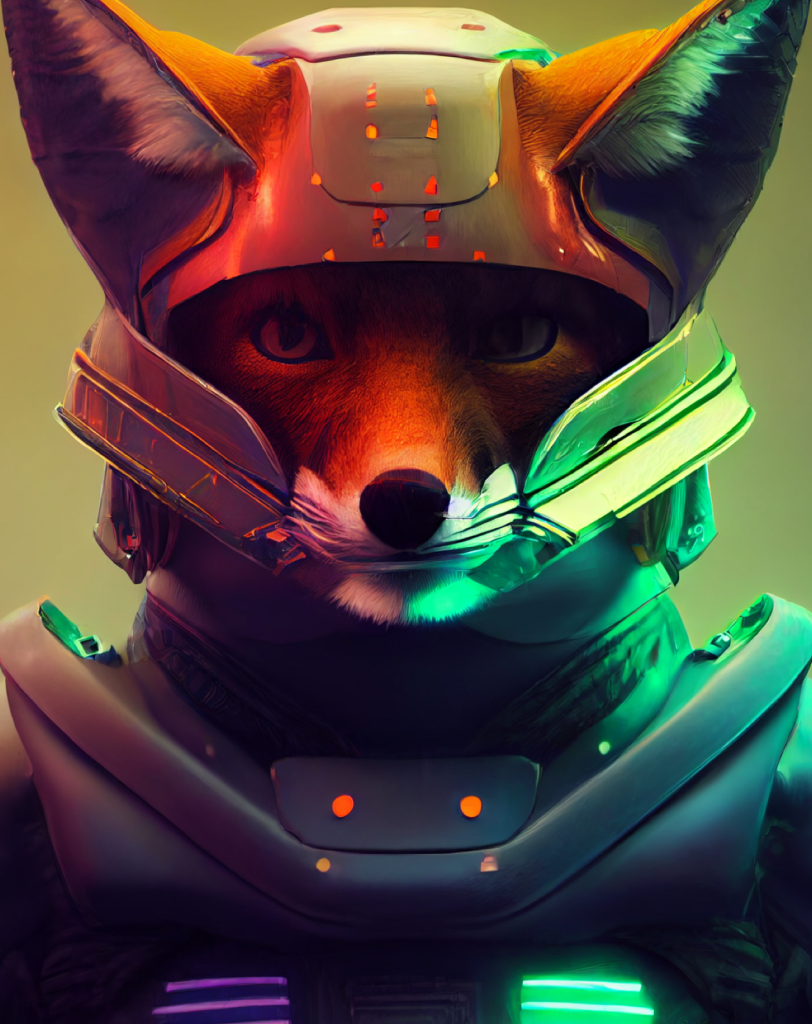
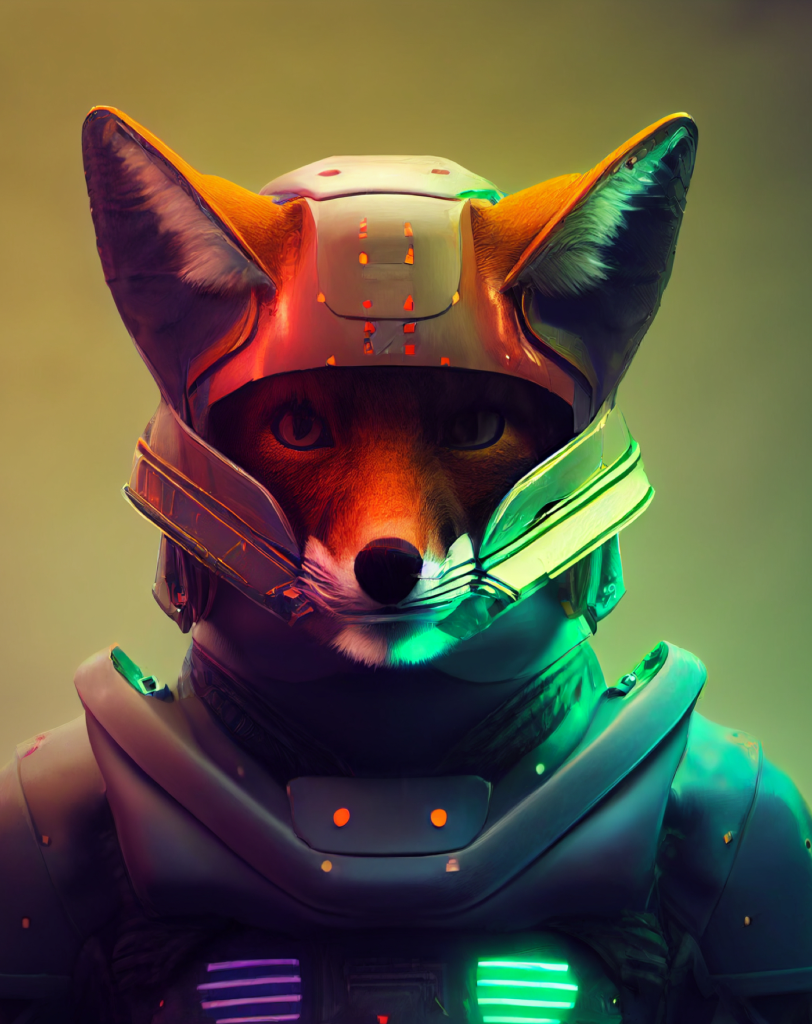
feat:contactus - progress

diff --git a/components/ContactUs.vue b/components/ContactUs.vue
@@ -2,7 +2,7 @@
   <scroll-animator
     @next="currentProgress++"
     @prev="currentProgress--"
-    :breakPointsNumber="8"
+    :breakPointsNumber="5"
     :gap="300"
     :startThresHold="100"
   >
@@ -28,33 +28,18 @@
           </div>
         <div class="home-sec__content" >
             <transition-group mode="out-in" name="fadeInDelayOutLeft">
-              <SaudiArabiaBranch
+              <Addresses
                 class=" animate__animated"
-                :key="2"
+                :key="1"
                 v-if="currentProgress == PROGRESS.firstSlide"
               />
-              <CairoBranch
+              <Contacts
                 class="animate__animated "
-                :key="3"
-                v-else-if="currentProgress == PROGRESS. secondSlide"
-              />
-              <ContactUsEmailSection
-                class="animate__animated "
-                :key="4"
-                v-else-if="currentProgress == PROGRESS.thirdSlide"
-              />
-              <RingUsRight
-                class="animate__animated "
-                :key="5"
-                v-else-if="currentProgress == PROGRESS.fourthSlide"
-              />
-              <RingUsLeft
-                class="animate__animated "
-                :key="6"
-                v-else-if="currentProgress == PROGRESS.fifthSlide "
+                :key="2"
+                v-else-if="currentProgress == PROGRESS.secondSlide "
               />
               <ContactUsFormSection class="animate__animated"
-                :key="1"   v-else-if="currentProgress == PROGRESS.sixthSlide" 
+                :key="3"   v-else-if="currentProgress == PROGRESS.thirdSlide" 
                 />
             </transition-group>
         </div>
@@ -71,20 +56,15 @@ const PROGRESS = Object.freeze({
   firstSlide: 3,
   secondSlide: 4,
   thirdSlide: 5,
-  fourthSlide: 6,
-  fifthSlide: 7,
-  sixthSlide: 8,
 });
 const PROGRESS_HIGHLIGHT_RATIO = Object.freeze({
   [PROGRESS.titleZoomIn]: 100,
   [PROGRESS.titleZoomOut]: 100,
   [PROGRESS.titleMoveUpAndFade]: 0,
-  [PROGRESS.firstSlide]: 15,
-  [PROGRESS.secondSlide]: 30,
-  [PROGRESS.thirdSlide]: 45,
-  [PROGRESS.fourthSlide]: 60,
-  [PROGRESS.fifthSlide]: 75,
-  [PROGRESS.sixthSlide]: 100,
+  [PROGRESS.firstSlide]: 30,
+  [PROGRESS.secondSlide]: 60,
+  [PROGRESS.thirdSlide]: 100,
+
 });
 const PROGRESS_TYPES = Object.freeze({
   forward: 1,

diff --git a/components/Contacts.vue b/components/Contacts.vue
@@ -1,0 +1,28 @@
+<template>
+    <contact-us-info-section class="contact-us-info contact-us-info--contacts" >
+    <template #img >
+            <div class="contacts-img" ></div>
+    </template>
+    <template #title >
+        <div class="branch-details">
+          <h1 class="contact-us-branch-section__title">contact <span class="text-secondary">us</span></h1>
+          <p class="contact-us-branch-section__desc">
+            info@digifymena.com <br>
+            +20227748700 <br />
+            +201144447609
+          </p>
+    </div>
+    </template>
+</contact-us-info-section>
+</template>
+<script>
+import img from "../assets/image/ring.png"
+export default defineNuxtComponent({
+    computed:{
+        img(){
+            return img
+        }
+    }
+})
+
+</script>

diff --git a/assets/sass/component/_contacts.scss b/assets/sass/component/_contacts.scss
@@ -1,0 +1,23 @@
+.contact-us-info{
+    &.contact-us-info--contacts{
+        .contact-us-info__img{
+            .contacts-img{
+                background-image: url(/_nuxt/assets/image/ring.png);
+                background-position-x: left;
+                animation: moveToLeft .7s forwards linear 1;
+                animation-delay: 1.5s;
+                background-size: cover;
+                @keyframes moveToLeft {
+                    0%{
+                        background-position-x: left;
+                    }
+                     100%{
+                        background-position-x: right;
+                    }
+                }
+                }
+            }
+        }
+    }
+
+

diff --git a/assets/sass/component/_contact-us-info.scss b/assets/sass/component/_contact-us-info.scss
@@ -1,9 +1,22 @@
 .contact-us-info{
     .contact-us-info__img{
+        text-align: left;
+        overflow: hidden;
         >img{
-            object-fit: cover;
-            max-width: 100%;
+            width: 100%;
             max-height: 100%;
+            transform: scale(1.5);
+            transform-origin: center center;
+            animation: scale .7s forwards ease-in 1;
+            animation-delay: 1.5s;
+            @keyframes scale {
+                0%{
+                    transform: scale(1.5)
+                }
+                 100%{
+                transform: scale(1);
+                }
+            }
         }
     }
     .contact-us-title{

diff --git a/components/Addresses.vue b/components/Addresses.vue
@@ -1,0 +1,20 @@
+<template>
+  <contact-us-info-section class="contact-us-info" >
+ <template #img >
+         <img
+         src="../assets/image/fox.png"
+         alt="fox-image"
+       />
+ </template>
+ <template #title >
+   <div class="branch-details">
+   <h1 class="contact-us-branch-section__title"><span class="text-secondary">our </span>addresses </h1>
+   <div class="contact-us-branch-section__desc">
+    
+  <p>82 AbdulAziz Fahmy Cairo, Cairo Governorate, Egypt 11361</p>
+     <p>Office #101 The Courtyard, Prince Saud Al Faisal ST. Jeddah</p>
+   </div>
+ </div>
+ </template>
+</contact-us-info-section>
+</template>

diff --git a/components/ContactUsFormSection.vue b/components/ContactUsFormSection.vue
@@ -3,7 +3,7 @@
     <div class="col-lg-5 col-sm-12">
       <div class="row h-auto">
         <div class="col-md-12">
-          <div class="title contact-us-form-section__title d-flex flex-column align-content-start text-start">
+          <div class="title contact-us-form-section__title d-flex flex-column align-content-start text-center">
             <p class="text-uppercase m-0">get in touch</p>
             <p class="text-uppercase m-0">with <span class="text-secondary" >digify</span></p>
             <p class="text-uppercase m-0">team today <span class="text-secondary" >!</span></p>

diff --git a/assets/sass/component/_components.scss b/assets/sass/component/_components.scss
@@ -5,13 +5,10 @@
 @import "./banner";
 @import "./image-text-section";
 @import "./img-text-section";
-@import "./contact-us";
 @import "./contact-us-form";
 @import "./contact-us-form-section";
-// @import "./contact-us-info";
+@import "./contact-us-info";
 @import "./contact-us-branch-section";
-@import "./contact-us-email-section";
-@import "./contact-us-ring-section";
 @import "./about-us.scss";
 @import "./services";
 @import "./portfolio";
@@ -19,3 +16,4 @@
 @import "./vue-transitions.scss";
 @import "./clients";
 @import "./client-slider";
+@import "./contacts";

diff --git a/components/ContactUsInfoSection.vue b/components/ContactUsInfoSection.vue
@@ -1,12 +1,12 @@
 <template>
     <section class="contact-us-info ">
     <div class="row gy-5">
-      <div class="col-md-8">
+      <div class="col-md-5 offset-1">
         <div class="contact-us-info__img" >
                 <slot  name="img" ></slot>
         </div>
       </div>
-      <div class="col-md-4">
+      <div class="col-md-4 offset-1">
         <div class="contact-us-title">
             <slot name="title" ></slot>
         </div>

diff --git a/assets/sass/component/_contact-us-form-section.scss b/assets/sass/component/_contact-us-form-section.scss
@@ -1,11 +1,10 @@
 .contact-us-form-section{
     .contact-us-form-section__title{
-        font-size: 60px;
+        font-size: 63px;
         font-weight: bold;
         color: $light;
         font-family: $font-family;
         line-height: 1;
-        letter-spacing: 1.5px;
         margin: 0;
         height: auto;
         *{

diff --git a/assets/sass/component/_contact-us-branch-section.scss b/assets/sass/component/_contact-us-branch-section.scss
@@ -1,4 +1,7 @@
 .branch-details{
+    display: flex;
+    flex-direction: column;
+    justify-content: center;
     .contact-us-branch-section__title{
         font-family: $title-font-family;
         color: $light;
